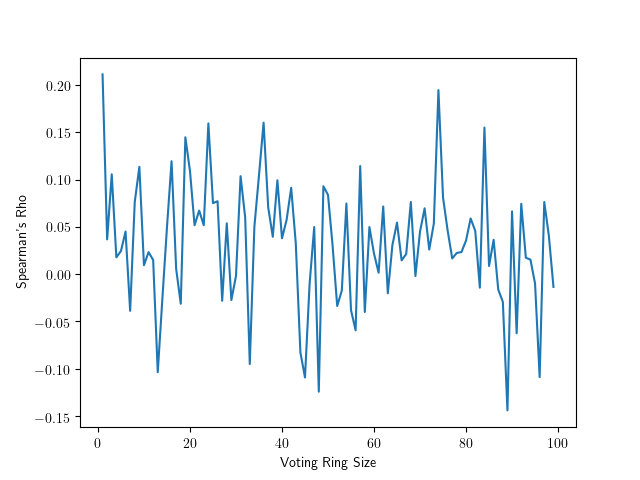
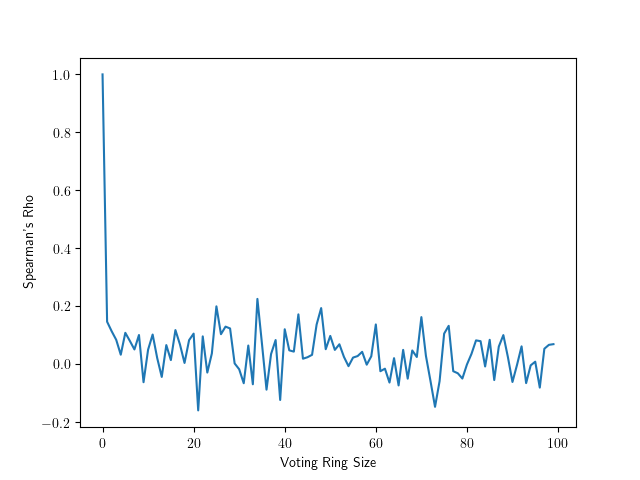
Include 0 selfish players in selfish case

diff --git a/simulation/pvs.py b/simulation/pvs.py
@@ -125,7 +125,10 @@ class PVS:
 
 
         if self.noProfiles[1] > 0: # if there exist selfish players
-            return ideal_pos - real_pos, t_similar_list[-1], spearman_list[-1], kendall_tau_list[-1]
+            gain = ideal_pos - real_pos
+        else:
+            gain = 0
+        return gain, t_similar_list[-1], spearman_list[-1], kendall_tau_list[-1]
 
 if __name__== "__main__":
     PVS(noProfiles, sp, a, b, regen_time, att_span, noRound,

diff --git a/latex/simulation.tex b/latex/simulation.tex
@@ -106,7 +106,7 @@
         \caption{$t$-ideal rank}
         \label{fig:selfish:tideal}
       \end{subfigure}
-      \caption{100 honest players, 100 posts and 1 to 100 selfish players}
+      \caption{100 honest players, 100 posts and 0 to 100 selfish players}
     \end{figure}
 
     \subsubsection{Scenario A}

diff --git a/simulation/main.py b/simulation/main.py
@@ -21,7 +21,7 @@ def main():
     kendalls = []
     spearmans = []
 
-    for i in range(1, selfishMax):
+    for i in range(0, selfishMax):
         print("selfish:", i)
         noProfiles = (100, i, 0)
         sp = (1,) * sum(noProfiles)
